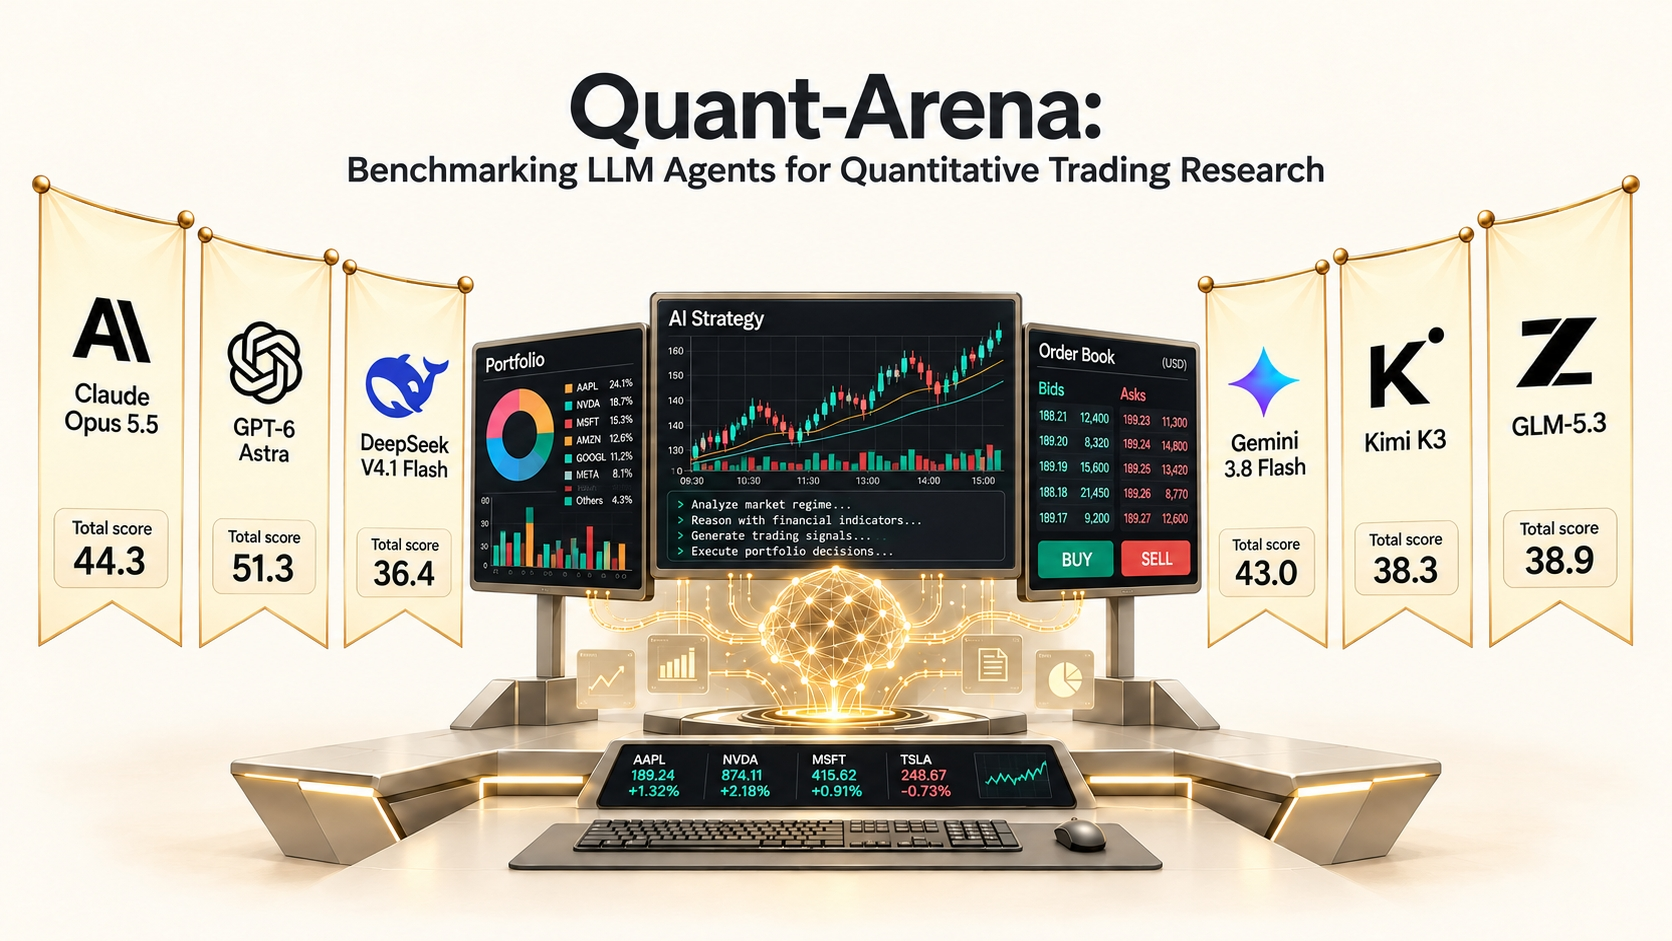
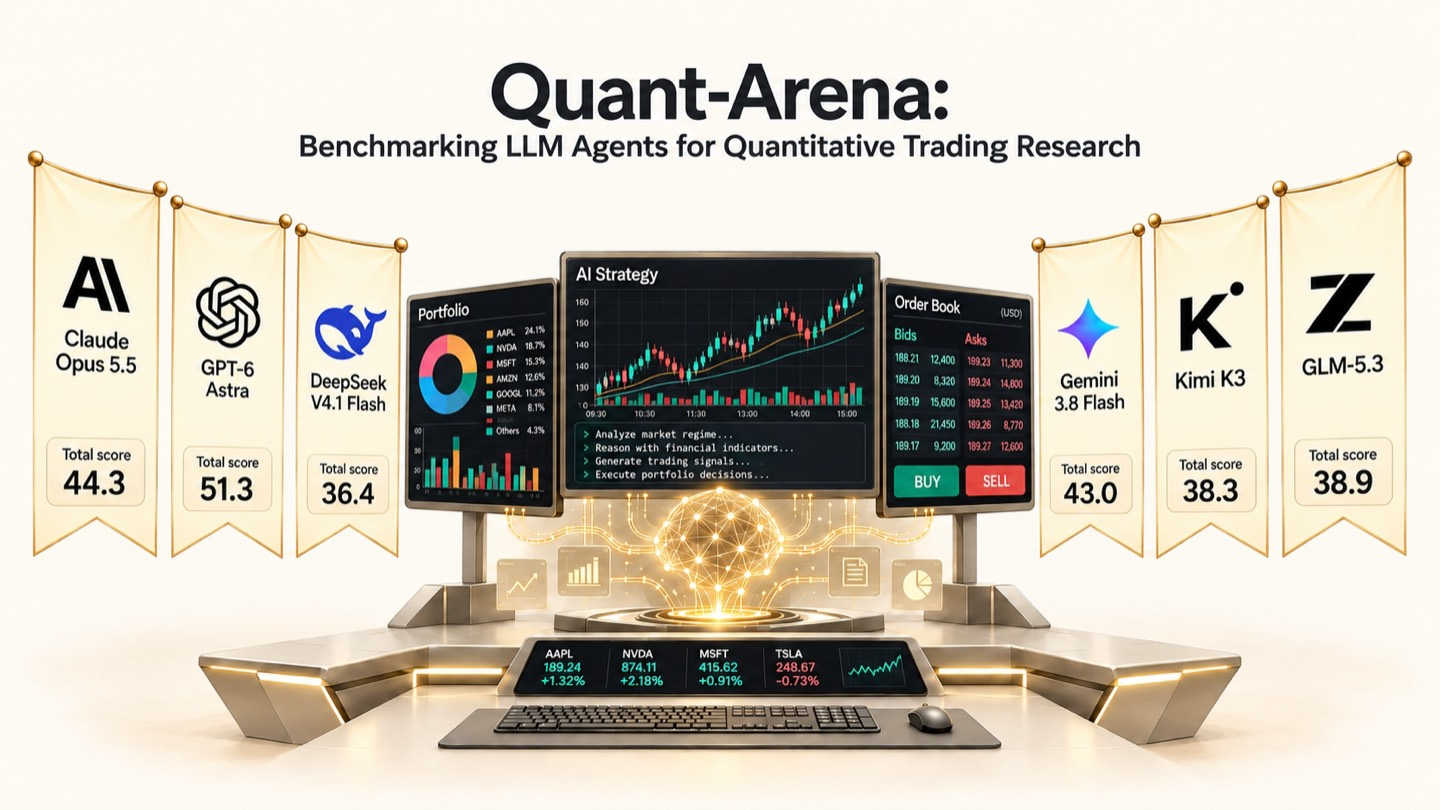
fix(quant-arena): smaller teaser to stay within the Pages size budget

diff --git a/src/lib/quant-arena.js b/src/lib/quant-arena.js
@@ -33,8 +33,8 @@ export const heroLinks = [
 export const teaser = {
   src: "/quant-arena/teaser.jpg",
   alt: "Quant-Arena evaluates LLMs on complete quantitative research runs; banners show total scores on the iterative research track.",
-  width: 1672,
-  height: 941,
+  width: 1440,
+  height: 810,
   placeholder: "Teaser figure (coming soon)",
   placeholderSrc: "/quant-arena/teaser-placeholder.svg",
 };
